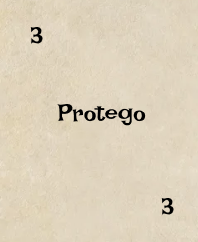
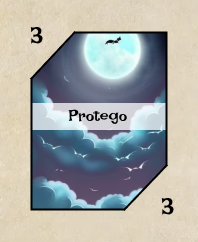
updated card imgs & added player selector

diff --git a/final/finalproject/script.js b/final/finalproject/script.js
@@ -8,7 +8,6 @@
     const gameControl = document.getElementById('gamecontrol');
     const game = document.getElementById('game');
     const actionArea = document.getElementById('actions');
-    const card = document.getElementById('card');
 
     //Cards Images
     const card1Front = document.querySelector('#card1Front');
@@ -255,10 +254,14 @@
 
             document.getElementById('roll').addEventListener("click", function(){
                 // console.log("Roll the dice!"); 
+                player.classList.add("select");
+                comp.classList.remove("select");
                 cardAnimation();
                 throwDice();
             });
         } else {
+            player.classList.remove("select");
+            comp.classList.add("select");
             throwDice();
         }      
     };
@@ -326,7 +329,7 @@
             console.log("The game proceeds")
 
             gameData.score[gameData.index] += gameData.rollSum;
-            // actionArea. innerHTML = '<button id = "rollagain">Fight</button> or <button id = "pass">Hide</button>'
+            // actionArea. innerHTML = '<button id = "rollagain">Fight</button> <button id = "pass">Hide</button>'
 
             if(gameData.index){
                 // glenda changed from draw to throwDice
@@ -336,7 +339,7 @@
                 cardAnimation();
                 computerTimer = setTimeout(throwDice, 2000);
             } else {
-                actionArea.innerHTML = '<button id = "rollagain">Fight</button> or <button id = "pass">Hide</button>'
+                actionArea.innerHTML = '<button id = "rollagain">Fight</button> <button id = "pass">Hide</button>'
                 // glenda moved this code here
                 document.getElementById('rollagain').addEventListener('click', function(){
                     cardAnimation();

diff --git a/final/finalproject/styles.css b/final/finalproject/styles.css
@@ -8,6 +8,10 @@ body {
     box-sizing: border-box;
 }
 
+img {
+    border-radius: 2rem;
+}
+
 .ball-bg {
     position: absolute;
     border-radius: 100%;
@@ -113,6 +117,9 @@ header {
     position: absolute;
     top: 0;
     margin: 3% 0 0 7%;
+    border: solid 2px white;
+    background-color: transparent;
+    color: white;
 }
 
 button {
@@ -155,10 +162,22 @@ button {
 .player {
     position: relative;
 }
+
 .player > img {
     width: 300px;
     border-radius: 20%;
-    box-shadow: 0 0 5px 10px white;
+}
+
+/* #player {
+    box-shadow: 0 0 5px 10px grey;
+}
+
+#comp {
+    box-shadow: 0 0 5px 10px grey;
+} */
+
+.select {
+    box-shadow: 0 0 5px 10px grey;
 }
 
 #play1 > img{
@@ -204,6 +223,7 @@ button {
     width: 470px;
     height: 250px;
     gap: 20px;
+    margin-top: 5%;
 }
 
 .card {
